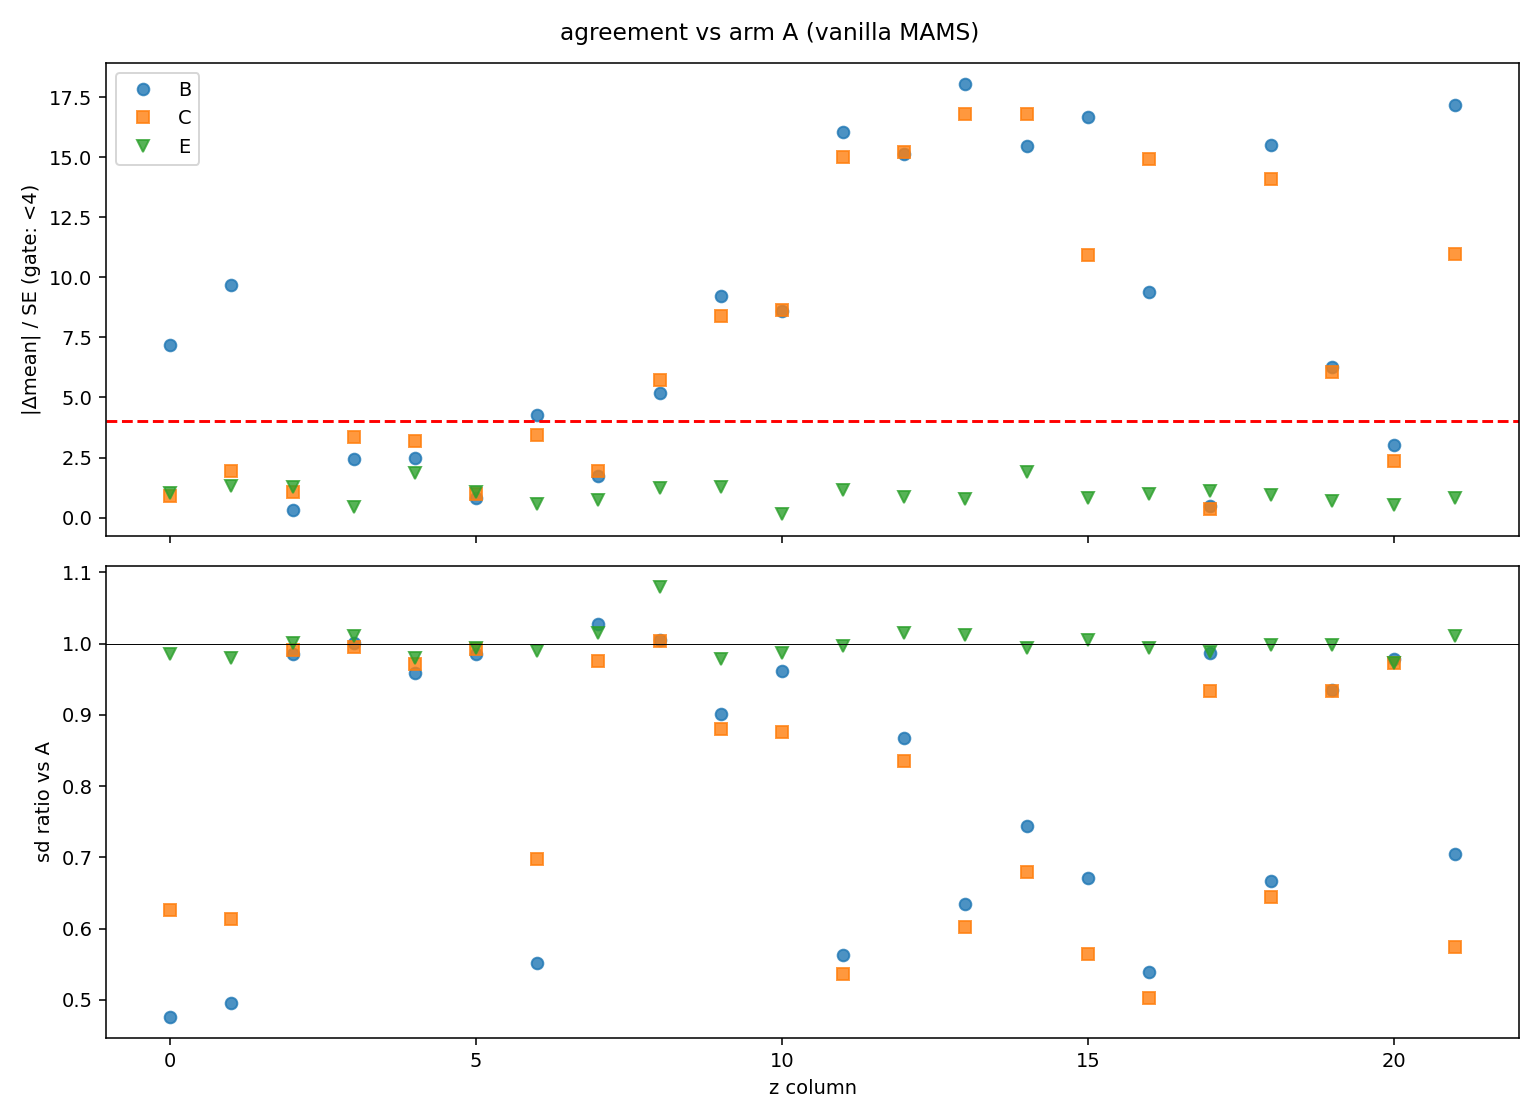
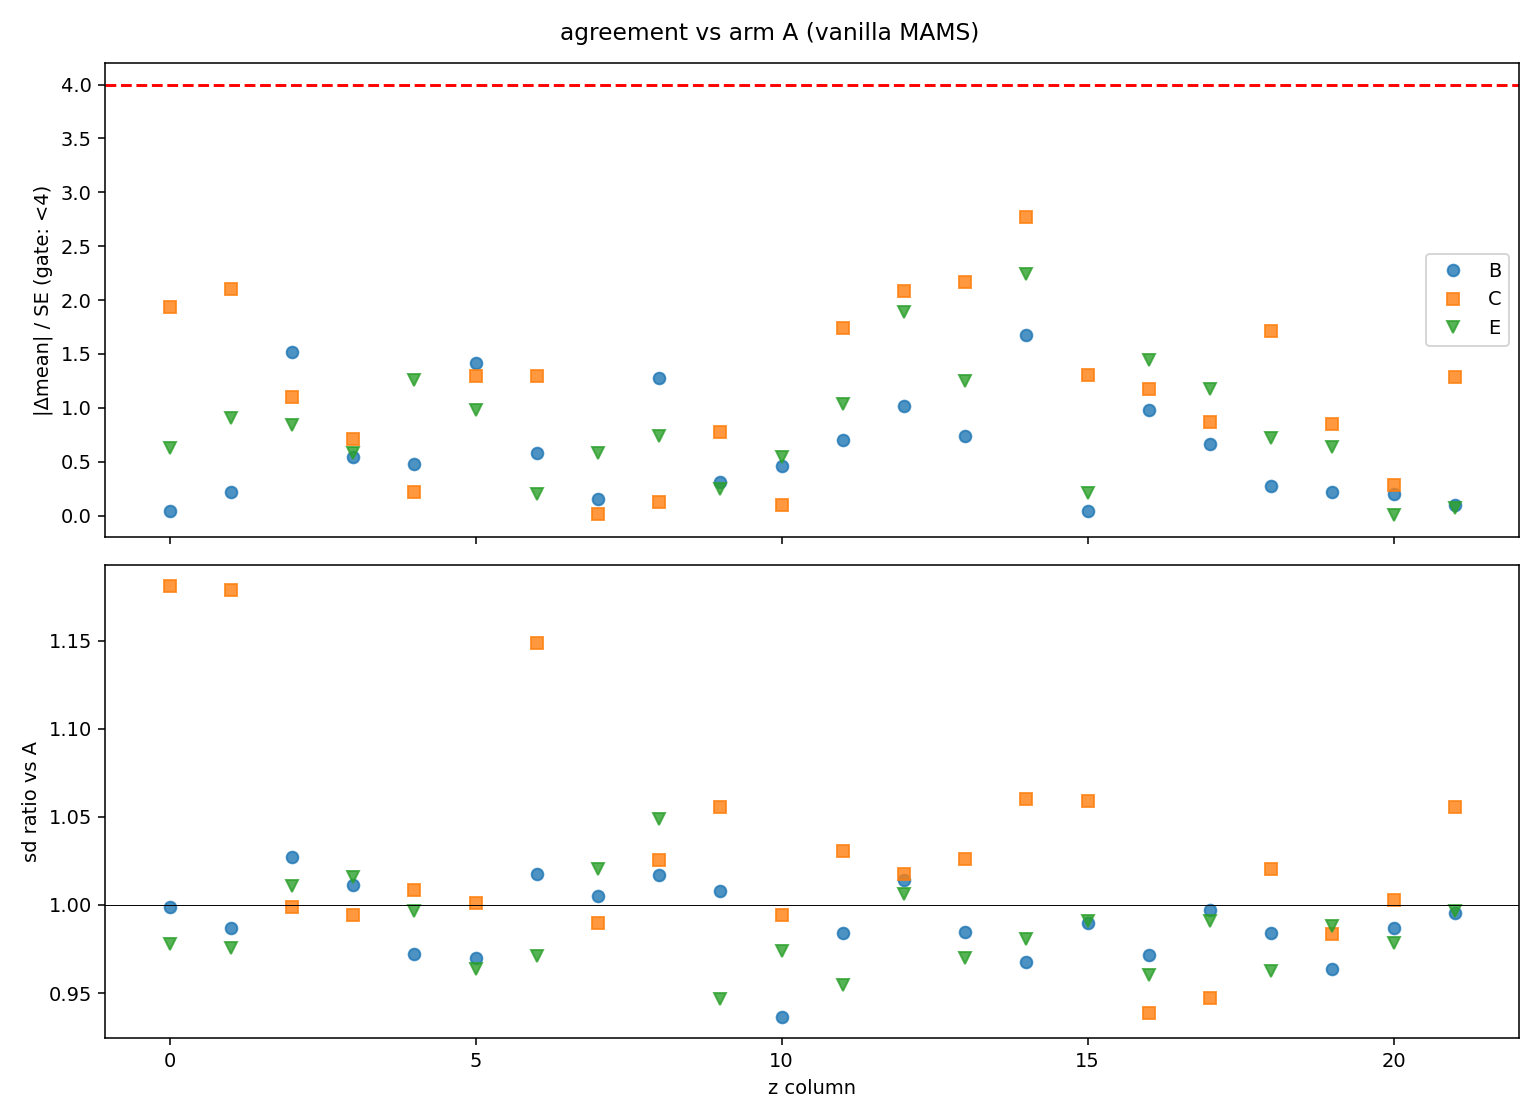
Demo validation v3 results: flow-MAMS validated (arm B full pass, 3x ESS); 2 informative prediction failures
Arm B (Phase-A spline, range 35): R-hat 1.009, worst mean dev 1.68 sigma, min ESS 1256
vs vanilla 412. Arm E repeat pass (5 NUTS divergences recorded). Arm D diverged as
predicted. Prediction (8) failed: range clip (not mode-seeking) was the v2 binding
constraint -- v2 attribution corrected in log. Prediction (2') failed: Phase B degraded
the flow on the unimodal demo (R-hat 1.076, 7.5x wall) -- Phase B now needs-evidence for
carousel, per pre-committed semantics. Full observed-vs-predicted in the lab log.

diff --git a/docs/logs/carousel-mclmc-sampling.md b/docs/logs/carousel-mclmc-sampling.md
@@ -523,7 +523,8 @@ multimodality, conditioning, or the NFW profile.
   viability relative to NeuTra-NUTS here), and NO further burnin escalation happens on the
   demo without an explicit human decision. E expected to repeat its v2 pass.
   **Cost: ≤35 GPU-min** (flows retrain at new arch; MAP/SVI cached; B/C burnin ×3.3).
-  **Status: awaiting rigor-grader approval of v3.**
+  **Status: v3 approved 2026-07-08 (rigor-grader, fourth round; all outcome branches
+  pre-committed); rerun authorized at ≤35 GPU-min.**
 
 - **Run: GATE I — identity-flow wrapper ≡ vanilla MAMS on the demo lens** (flow-preconditioning
   plan `docs/plans/flow-preconditioned-mams.md` §5.1; script
@@ -632,6 +633,37 @@ Before a consequential run, the producer logs a checkpoint here and stops for gr
 ---
 
 ## Log (newest first)
+
+- **2026-07-08 (demo validation v3 RAN — flow-MAMS VALIDATED on demo; 2 predictions failed,
+  both informative)** `proposed (UNCERTIFIED)`. Observed vs predicted, per pre-registered gate:
+  **(9) ARM B (flow-MAMS, Phase-A spline, range 35) FULL PASS** — health R̂ 1.009, worst mean
+  dev 1.68σ (<4), sd ratios [0.94, 1.03], min bulk-ESS **1256** vs vanilla arm A's 412 at
+  equal kept draws (3.0× ESS; wall-clock ESS/s ≈ parity on this easy system — the geometry
+  win is expected to matter on hard targets, not here). The MAMS × nonzero-flow link is now
+  validated at demo scale. **(2'') ARM E repeat pass** (R̂ 1.005, worst 2.24σ; divergence
+  gate FAILED again: 5/2400 — persistent curvature flag, weigh before carousel NeuTra use).
+  **(6) ARM D diverged as predicted** (faithful NeuTra; mechanism archived). **(1)/(5) flow +
+  Phase-B-trains gates PASS** (neg-ELBO tail −76.6 ≤ −70.98; fkl −83.0→−91.1).
+  **PREDICTION (8) FAILED — informative:** Phase-A-only PASSED the pullback-scale gate
+  (sd [0.99, 1.24], |mean|max 0.21). With range 35, reverse-KL learned the scales fine on
+  this unimodal target ⇒ the v2 attribution "mode-seeking kept SVI underdispersion" was
+  WRONG in its mechanism — the ±6 range clip was binding for Phase A too. CORRECTION to the
+  v2 entry recorded here. Scope: this does NOT bear on the carousel §4.4 pocket claim
+  (mode-dropping of a separate 14σ mode is a different mechanism from same-basin scale
+  learning; the demo has no second mode to drop) — the carousel GATE F A/B remains the test.
+  **PREDICTION (2') FAILED for ARM C — negative finding about Phase B on unimodal targets:**
+  the A+B flow passed pullback-scale (sd [1.13, 1.46]) but arm C failed health (R̂ 1.076,
+  min-ESS 232) and was 7.5× slower than arm B (1306 s vs 174 s) with width ratios to 1.18.
+  Reading: forward-KL refinement on 2400 correlated MAMS draws (ESS~400) degraded an
+  already-good flow (train fkl kept improving — consistent with overfitting the finite
+  sample and roughening the pullback geometry). On the demo Phase B had nothing to fix;
+  its intended value (pocket coverage) is untestable here. Implication for carousel: run the
+  pre-registered A-only vs A+B GATE F exactly as planned, but treat Phase B as
+  needing-evidence, not presumed-better; consider more/less-correlated training data and
+  early stopping if it fails there too. Per v3 pre-commitment, no demo re-runs of arm C
+  without an explicit human decision. Budget-carried cross-check: NOT triggered (pullback
+  gate (7) passed). Cost: ~0.6 GPU-h. Artifacts: demo_validation_out/* (summary JSON, arrays,
+  traces_worst_param.png, agreement.png, flow_losses.png), branch flow-precond-mams.
 
 - **2026-07-08 (demo validation v2 RAN — mixed; B/C failure DIAGNOSED as range-clipped flow
   + under-adaptation, not a bug)** `proposed (UNCERTIFIED)`. Observed vs predicted:
